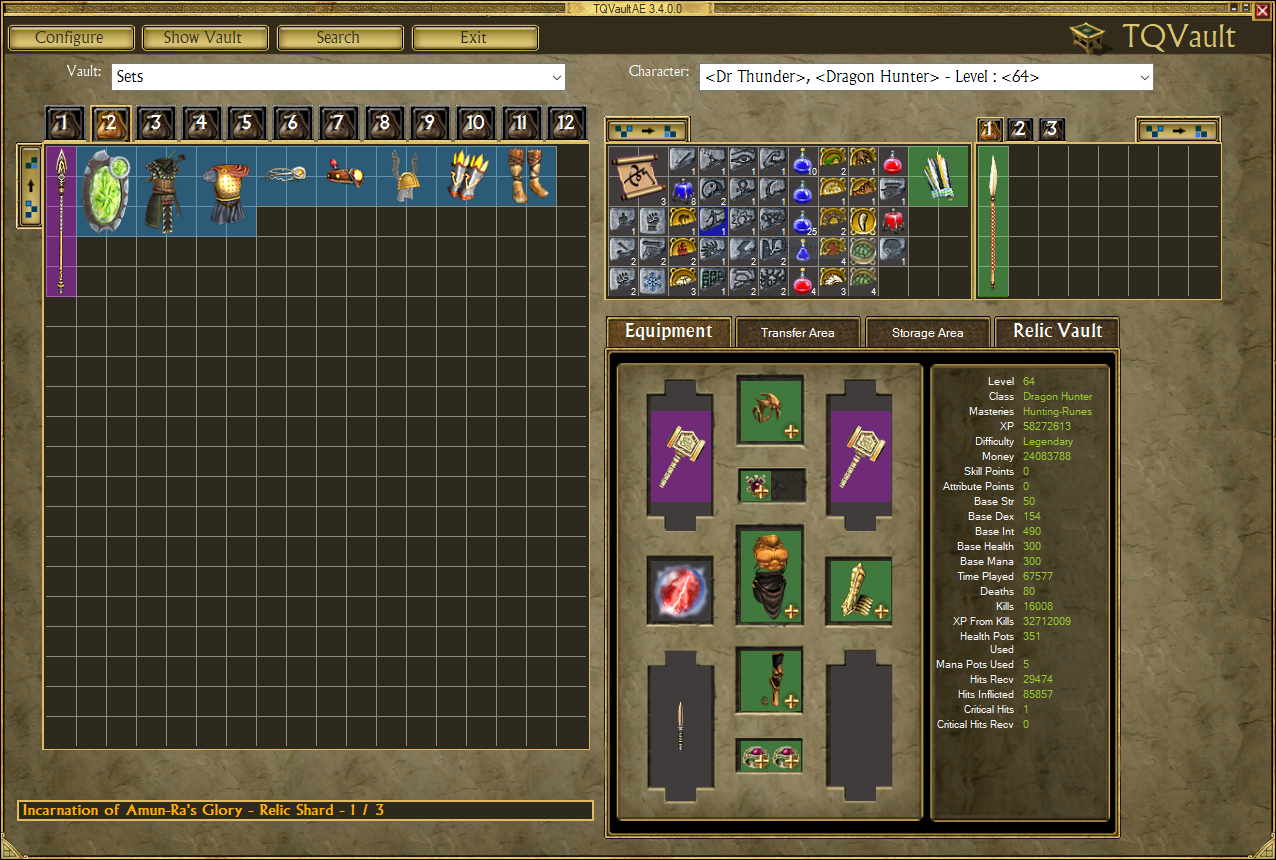
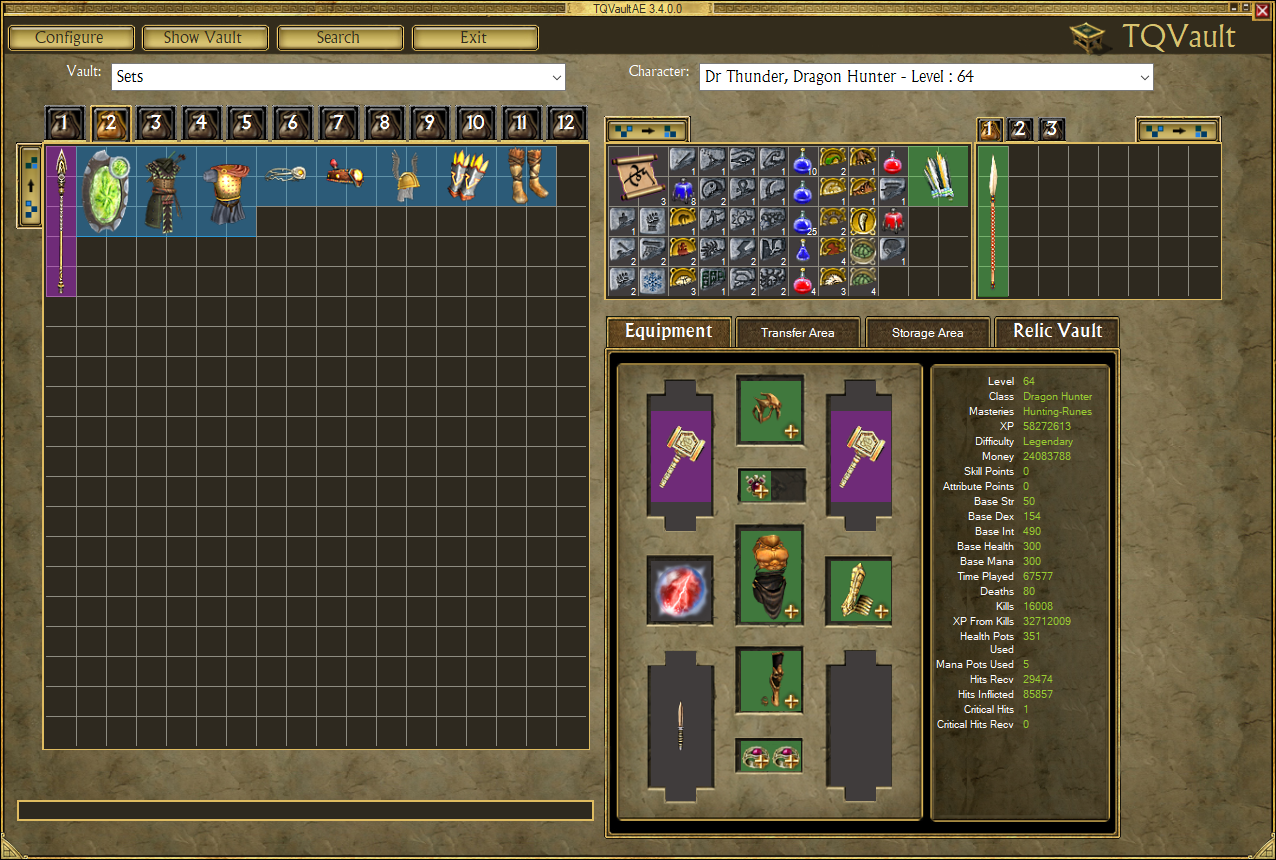
Fix character dropdown string format

Changed region(s): [[0.5502, 0.0605, 0.7641, 0.1209], [0.0306, 0.9372, 0.3056, 0.9674], [0.5502, 0.2419, 0.5807, 0.2721]]

diff --git a/src/TQVaultAE.Domain/Entities/PlayerSave.cs b/src/TQVaultAE.Domain/Entities/PlayerSave.cs
@@ -28,10 +28,10 @@ namespace TQVaultAE.Domain.Entities
 		{
 			//return $"{this.Name}{PlayerService.CustomDesignator}"; // Old
 			return string.Join(string.Empty, new[] {
-				Info is null ? Name : $"<{Name}>"
-				, Info?.Class is null ? string.Empty : $", <{Translate.TranslateCharacterClassName(Info.Class)}>"
+				Info is null ? Name : $"{Name}"
+				, Info?.Class is null ? string.Empty : $", {Translate.TranslateCharacterClassName(Info.Class)}"
 				, !string.IsNullOrWhiteSpace(Info?.Class) && Info?.CurrentLevel != null ?  " -" : string.Empty
-				, Info?.CurrentLevel is null ? string.Empty : $" Level : <{Info.CurrentLevel}>"
+				, Info?.CurrentLevel is null ? string.Empty : $" Level : {Info.CurrentLevel}"
 				//, IsCustom ? $", IsCustom" : string.Empty // CustomMap is not specificaly related to this character
 			});
 		}
